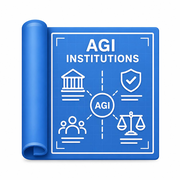
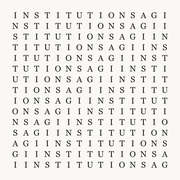
favico

diff --git a/app/lib/detail.server.ts b/app/lib/detail.server.ts
@@ -66,7 +66,8 @@ export function buildCellDetail(tabId: TabId, rowId: string, colId: string): Cel
 
   const fm = cell.frontmatter;
   const humanCell = tabId === "human" ? loadHumanInstitutions().cells[key] : null;
-  const title = tabId === "human" ? humanCell?.title || cell.summary : cell.summary;
+  const title =
+    tabId === "human" ? humanCell?.label || humanCell?.title || cell.summary : cell.summary;
   const summaryBoxHtml = renderSummaryBox(fm);
   const theoryBoxHtml = tabId === "agi" ? renderTheoryOfChange(fm) : "";
   const humanEraHtml = "";

diff --git a/app/root.tsx b/app/root.tsx
@@ -36,6 +36,7 @@ export const links: Route.LinksFunction = () => [
     href: "https://fonts.googleapis.com/css2?family=Lora:ital,wght@0,400..700;1,400..700&display=swap",
   },
   { rel: "icon", href: "/favicon.ico", sizes: "any" },
+  { rel: "icon", type: "image/svg+xml", href: "/favicon.svg" },
   { rel: "icon", type: "image/png", sizes: "32x32", href: "/favicon-32.png" },
   { rel: "apple-touch-icon", href: "/apple-touch-icon.png" },
 ];
